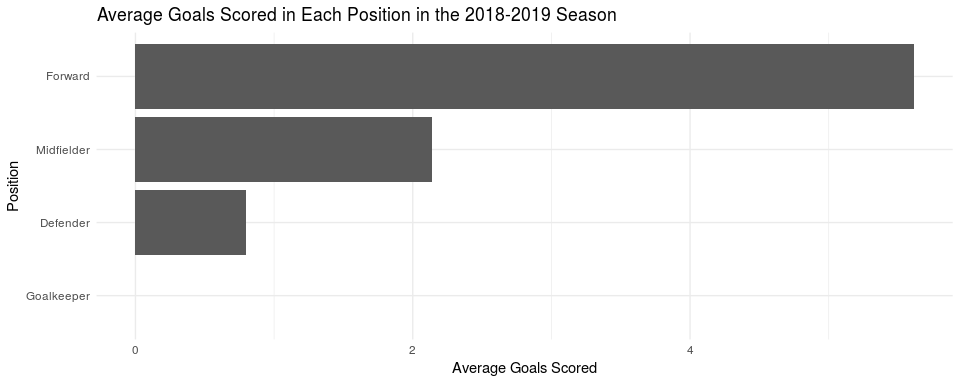
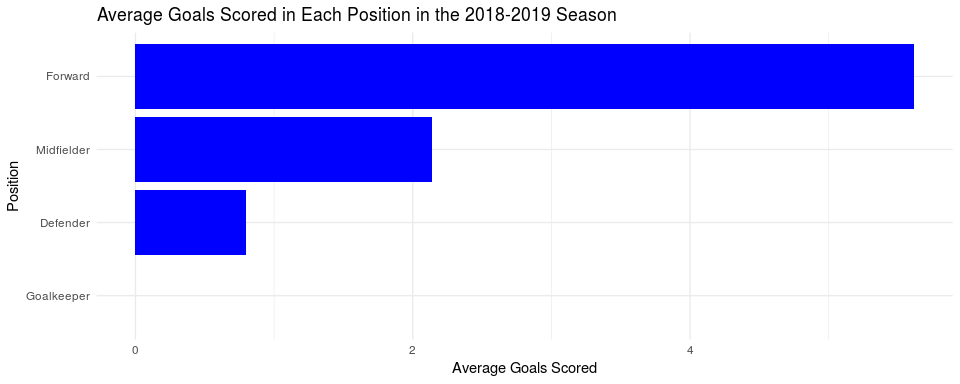
Fixed aesthetics on bar graphs

Changed region(s): [[0.125, 0.0938, 0.9688, 0.6875]]

diff --git a/project/project.md b/project/project.md
@@ -217,7 +217,7 @@ position_goals
 position_goals %>%
   mutate(position_new = fct_reorder(position_new, goals_avg)) %>%
   ggplot(mapping = aes(x = position_new, y = goals_avg)) +
-  geom_col() +
+  geom_col(fill = "blue") +
   labs(
     title = "Average Goals Scored in Each Position in the 2018-2019 Season",
     x = "Position", 
@@ -233,7 +233,7 @@ position_goals %>%
 position_goals %>%
   mutate(position_new = fct_reorder(position_new, assists_avg)) %>%
   ggplot(mapping = aes(x = position_new, y = assists_avg)) +
-  geom_col() +
+  geom_col(fill = "purple") +
   labs(
     title = "Average Assists in Each Position in the 2018-2019 Season",
     x = "Position", 
@@ -389,9 +389,9 @@ rmses
 ```
 
     ##        1        2        3        4        5        6        7        8 
-    ## 17.10476 14.21914 17.45398 21.12462 22.77454 32.57364 20.42598 20.34975 
+    ## 25.58377 20.06320 19.66600 21.38450 20.50071 16.92810 16.29036 30.00097 
     ##        9       10 
-    ## 23.98163 16.13049
+    ## 18.53354 19.36848
 
 ## Conclusion
 
